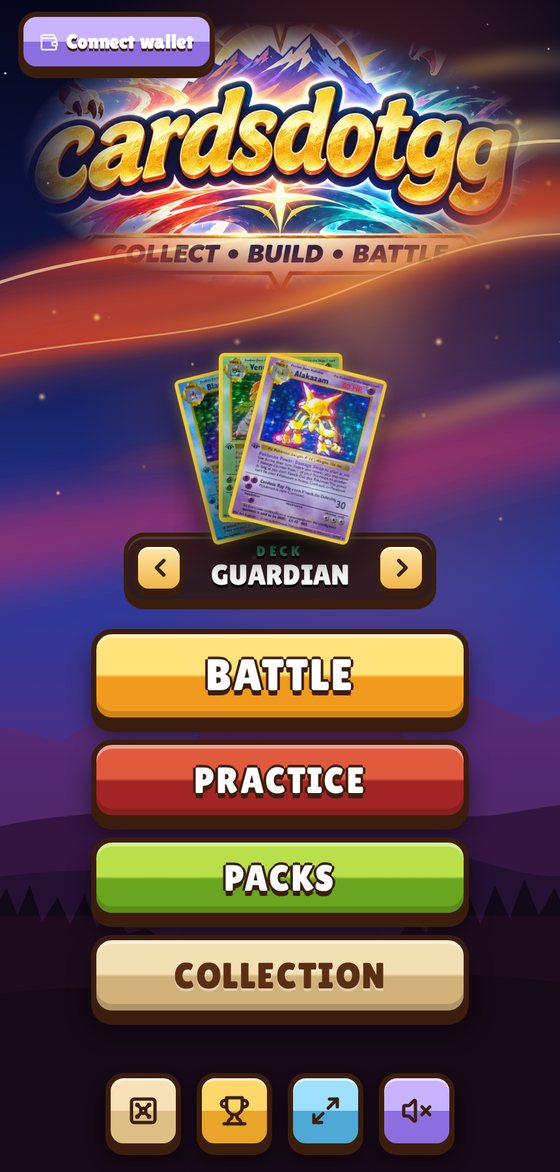
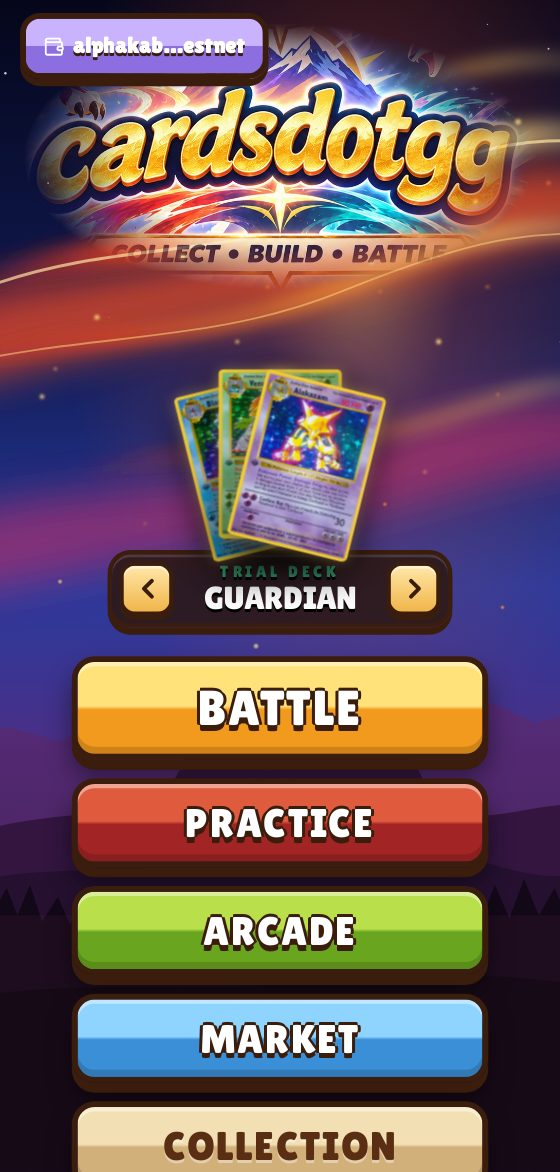
docs: README covers the arcade, White Flare NFTs, graded cards and Netlify deploy
- New app tour screenshots: arcade, Stacker, Claw, market, graded cards, White Flare collection, wallet, menu, packs
- netlify.toml for the Next.js app in app/ (base app, pnpm build, Node 22)

diff --git a/README.md b/README.md
@@ -4,7 +4,7 @@
 
 # cardsdotgg
 
-**Yield-funded card battles on NEAR. Deposit, build a deck, open packs, and duel turn by turn with every move recorded onchain.**
+**Yield-funded card battles on NEAR. Deposit, build a deck, win packs in the arcade, collect real graded cards, and duel turn by turn with every move recorded onchain.**
 
 [![NEAR testnet](https://img.shields.io/badge/NEAR-testnet-00ec97?logo=near&logoColor=white)](https://testnet.nearblocks.io/address/9cc71b1795d97d7afedcf6ca6863a9134b9adb117301f79d84424d5471daf0f4)
 [![Rust](https://img.shields.io/badge/contracts-Rust-b7410e?logo=rust&logoColor=white)](near)
@@ -12,11 +12,11 @@
 [![Yield data](https://img.shields.io/badge/yield%20data-Rhea%20pools-6c47ff)](#where-rhea-data-is-used)
 [![Status](https://img.shields.io/badge/status-prototype-orange)](#known-limits)
 
-[App tour](#app-tour) · [How it works](#how-it-works) · [Game rules](#game-rules) · [Architecture](#architecture) · [Quick start](#quick-start) · [Known limits](#known-limits)
+[App tour](#app-tour) · [How it works](#how-it-works) · [Game rules](#game-rules) · [Architecture](#architecture) · [Quick start](#quick-start) · [Deploy](#deploy-the-app-to-netlify) · [Known limits](#known-limits)
 
 </div>
 
-> Test tokens have no real value. The contracts are unaudited prototypes on NEAR testnet.
+> Test tokens have no real value. The contracts are unaudited prototypes on NEAR testnet. The one exception is **Buy with NEAR** on graded cards, which spends real NEAR on mainnet.
 
 ## Table of contents
 
@@ -28,6 +28,7 @@
 - [Live contracts](#live-contracts-near-testnet)
 - [Quick start](#quick-start)
 - [Deploy to NEAR testnet](#deploy-to-near-testnet)
+- [Deploy the app to Netlify](#deploy-the-app-to-netlify)
 - [Where Rhea data is used](#where-rhea-data-is-used)
 - [Project layout](#project-layout)
 - [Testing](#testing)
@@ -41,10 +42,13 @@ cardsdotgg is a trading-card battler where your deck is a DeFi position. You put
 - **A deck is a vault position.** Pick Guardian (steady), Balanced or Degen (risky). Principal never moves in a match.
 - **24 original creatures with real abilities.** Stats and abilities come from the product spec in [`cardsdotgg.md`](cardsdotgg.md).
 - **Collect and customize.** Packs unlock more creatures and pictures. Rare pictures give a small HP perk. Ownership is checked by the contract.
+- **Win packs in the arcade.** Stacker is free and earns Pack Tickets (3 a day). The Claw costs 2 tUSD and earns a Season Ticket. Every pack opens with a ticket.
+- **Real cards, one of one.** The White Flare season pack holds 23 real physical cards, each minted to its puller as a NEP-171 NFT on NEAR. Win the Claw and your card is 75% likely to be rare.
+- **Graded cards in the market.** The 5 cheapest graded Pokémon cards on Collector Crypt and on Magic Eden, bought with NEAR through NEAR Intents.
 - **Play without signing every move.** Matchmaking adds a restricted "quick play" key, so a duel has no wallet pop-ups.
 - **Practice for free.** Practice plays the same rules against the computer, with your own saved deck, and sends nothing to the chain.
 
-> **Status:** deployed on NEAR testnet and exercised end to end (claim, deposit, seed, challenge, accept, resolve, replay, withdraw), plus a full turn-based duel with session keys only (`pnpm e2e:duel`) and a pack purchase with ownership checks (`pnpm e2e:packs`).
+> **Status:** deployed on NEAR testnet and exercised end to end (claim, deposit, seed, challenge, accept, resolve, replay, withdraw), plus a full turn-based duel with session keys only (`pnpm e2e:duel`), a free arcade ticket opening a trial pack with ownership checks (`pnpm e2e:packs`), and the claw-to-NFT season flow (`pnpm e2e:season`). Players have pulled 8 of the 23 White Flare cards on testnet.
 
 ## App tour
 
@@ -60,7 +64,7 @@ Screens are shown at phone size with sample data. The app is built phone-first a
 <td width="25%"><img src="docs/screenshots/lobby-waiting.jpg" alt="Waiting for a player" /></td>
 </tr>
 <tr>
-<td valign="top"><b>Main menu.</b> Pick a deck type, then BATTLE (online), PRACTICE, PACKS or COLLECTION. Signing in is only needed for online play.</td>
+<td valign="top"><b>Main menu.</b> Pick a deck type, then BATTLE (online), PRACTICE, ARCADE, MARKET or COLLECTION. The deck label says TRIAL DECK until you own one, then YOUR TRIAL DECK #id.</td>
 <td valign="top"><b>Practice.</b> The real duel rules against the computer. Uses your saved deck when you are signed in, otherwise the starter deck. Nothing is sent to the chain.</td>
 <td valign="top"><b>Lobby.</b> Shows the deck you will bring. FIND OPPONENT asks your wallet once and turns on quick play. Rating, Settings and the leaderboard sit at the top.</td>
 <td valign="top"><b>Waiting.</b> Your deck is in the lobby. The fight starts the moment another player joins. Leave any time.</td>
@@ -101,11 +105,42 @@ Screens are shown at phone size with sample data. The app is built phone-first a
 
 <table>
 <tr>
-<td width="33%"><img src="docs/screenshots/packs.jpg" alt="Pack room" /></td>
-<td width="33%"><img src="docs/screenshots/pack-opened.jpg" alt="Pack opened" /></td>
-<td width="33%" valign="top">
-<b>Packs.</b> A pack costs 2 tUSD and holds 5 pictures and 1 creature. Opening one is a real purchase, then a reveal one card at a time. The summary marks what is NEW, shows each picture's HP perk, any creature you unlocked, and an unlocked counter.<br /><br />
-<b>Collection.</b> Search all 102 pictures. Each is marked Starter, Unlocked (with its perk) or Locked.
+<td width="25%"><img src="docs/screenshots/packs.jpg" alt="Pack room" /></td>
+<td width="25%"><img src="docs/screenshots/pack-opened.jpg" alt="Pack opened" /></td>
+<td width="25%"><img src="docs/screenshots/white-flare.jpg" alt="White Flare collection" /></td>
+<td width="25%"><img src="docs/screenshots/wallet.jpg" alt="Wallet" /></td>
+</tr>
+<tr>
+<td valign="top"><b>Packs.</b> Trial packs (Guardian, Balanced, Degen) open with a Pack Ticket. The White Flare tab opens with a Season Ticket and shows the season window and how many real cards are left.</td>
+<td valign="top"><b>Pack opened.</b> A reveal one card at a time. A trial pack marks what is NEW, each picture's HP perk and any creature you unlocked. A White Flare pack flips the photo of your real card.</td>
+<td valign="top"><b>Collection.</b> All 102 trial pictures, marked Trial deck, Trial pack, Trial or Locked. The White Flare tab shows the 23 real cards: Yours (with Send), Pulled or In packs.</td>
+<td valign="top"><b>Wallet.</b> Your testnet account (with Copy), the live NEAR balance, GET TESTNET NEAR (NEAR's official faucet) and Sign out.</td>
+</tr>
+</table>
+
+### Arcade and market
+
+<table>
+<tr>
+<td width="25%"><img src="docs/screenshots/arcade.jpg" alt="Arcade" /></td>
+<td width="25%"><img src="docs/screenshots/stacker.jpg" alt="Stacker" /></td>
+<td width="25%"><img src="docs/screenshots/claw.jpg" alt="Claw" /></td>
+<td width="25%"><img src="docs/screenshots/market.jpg" alt="Market" /></td>
+</tr>
+<tr>
+<td valign="top"><b>Arcade.</b> Two machines and your tickets: Pack, Season and free plays left today. Each machine has a Rules sheet.</td>
+<td valign="top"><b>Stacker (free).</b> Stop each row on the one below and reach the top. Win or lose, every play earns a Pack Ticket, up to 3 a day.</td>
+<td valign="top"><b>Claw (2 tUSD).</b> Drop the claw on a capsule. Win or lose you get a Season Ticket; a grab makes a rare White Flare card 75% likely, a miss 25%.</td>
+<td valign="top"><b>Market.</b> Redeem tickets for packs, buy graded cards, and see what is coming soon (Season 2 pack, card sleeves, booster box).</td>
+</tr>
+</table>
+
+<table>
+<tr>
+<td width="25%"><img src="docs/screenshots/graded-cards.jpg" alt="Graded cards" /></td>
+<td width="75%" valign="top">
+<b>Graded cards.</b> The 5 cheapest graded Pokémon cards on Collector Crypt and on Magic Eden, listed next to the packs with a GRADED CARD tag, the price in USD and an estimate in NEAR.<br /><br />
+<b>Buy with NEAR.</b> Paste your card wallet address, connect a NEAR <b>mainnet</b> wallet and get a live NEAR Intents quote. One NEAR transaction delivers the price plus 5% for marketplace fees to your card wallet in about 20 seconds, then the button opens the listing so you complete the buy there.
 </td>
 </tr>
 </table>
@@ -118,7 +153,8 @@ Other screens: **Get Coins** (claim free test tokens and make a deck), **Cash Ou
 flowchart LR
   A[Claim free coins] --> B[Deposit 10+ tUSD]
   B --> C[Get a deck<br/>Guardian / Balanced / Degen]
-  C --> D[Open packs<br/>unlock creatures and pictures]
+  C --> T[Arcade<br/>Stacker free / Claw 2 tUSD]
+  T --> D[Open packs with tickets<br/>unlock creatures, pictures, real cards]
   D --> E[Customize the deck]
   E --> F{Play}
   F -->|free| G[Practice vs the computer]
@@ -132,7 +168,7 @@ flowchart LR
 
 1. **Claim and deposit.** Claim tUSD or tNEAR once per 24 hours, then deposit at least 10 tUSD of value (tNEAR is valued at the Rhea-derived price) to mint a deck. A deposit is one `ft_transfer_call`: no approve step.
 2. **Earn.** Yield accrues to the deck's escrow in tUSD at the oracle rate, paid from a reserve the owner funded. Collect it any time from My Decks.
-3. **Open packs.** Each pack is 2 tUSD sent to the game contract. It unlocks 5 pictures and 1 creature in your onchain collection. See [Packs and perks](#packs-and-perks).
+3. **Play the arcade, open packs.** A free Stacker play earns a Pack Ticket, which opens a trial pack: 5 pictures and 1 creature in your onchain collection. A 2 tUSD Claw play earns a Season Ticket, which opens the White Flare pack: one real card as an NFT. See [Packs, tickets and perks](#packs-tickets-and-perks).
 4. **Customize.** In the deck builder pick 8 different creatures and a picture for each. The contract refuses a creature or picture you have not unlocked.
 5. **Practice (optional).** Play the computer with your deck to test it. Free, and no wallet needed.
 6. **Battle.** Tap FIND OPPONENT to open a lobby, or JOIN BATTLE on one that is waiting. Each player stakes 0.1% of their deposit from escrow. If either side is short, the match is Rank-only.
@@ -175,19 +211,36 @@ The duel rules live in [`near/game/src/duel.rs`](near/game/src/duel.rs) and are 
 
 The class wheel is Stable > Treasury > Gold > Credit > BTC > Stable. The class wheel and the Energy, power and retreat numbers are new to this build and need playtesting.
 
-### Packs and perks
+### Packs, tickets and perks
 
-- A pack is **2 tUSD**: 2 common, 2 uncommon and 1 rare picture, plus 1 creature.
+- **Every pack opens with a ticket.** Packs can no longer be bought directly with tUSD; the contract refuses it and returns the tUSD.
+- **Pack Ticket:** each free Stacker play earns one, up to **3 per wallet per UTC day** (`arcade_free_play`). It opens one trial pack (`open_pack`): 2 common, 2 uncommon and 1 rare picture, plus 1 creature.
+- **Season Ticket:** each paid Claw play (**2 tUSD**, to the prize pool) earns one after its result is reported (`arcade_claw_result`). It opens one White Flare pack (`open_season_pack`).
 - **Creatures:** a deck can always use its own type's 8 starter creatures. Any other creature must be unlocked.
 - **Pictures:** a card's picture must be one of the 24 printed on the starter decks, or unlocked. Each picture can be used once per deck.
 - **HP perk:** a picture unlocked from a pack adds max HP to its card, rare +5% and uncommon +2%. Starter pictures and the default give nothing.
+
+### White Flare season (real cards)
+
+- **23 physical cards, one of each,** loaded on-chain as the season stock (`set_rwa_stock`). A season pack mints exactly one of them to the buyer and removes it from the stock, so no card goes out twice; the pack sells out at zero.
+- **Season window:** the pack opens only between the season's start and end (`set_season`, about two months). The contract enforces it.
+- **Rare odds:** 8 cards printed Uncommon or above are rare (`set_rwa_rare`). A won Claw ticket draws a rare card 75% of the time, a lost one 25%, from the block's random seed. The win itself is reported by the app.
+- **NEP-171 NFTs:** the cards are standard NEAR NFTs inside the game contract: NEP-171 core, NEP-177 metadata (title, photo, set and number), NEP-178 approvals for marketplaces, NEP-181 enumeration and NEP-297 events. Holders can send them from the collection.
+- **Collectibles only:** they are not deck pictures and give no battle perk.
+
+### Graded cards (NEAR Intents)
+
+- **Listings:** the 5 cheapest graded Pokémon cards on [Collector Crypt](https://collectorcrypt.com)'s marketplace (priced in USDC) and on [Magic Eden](https://magiceden.io)'s `collector_crypt` collection (priced in SOL), read straight from their public APIs in the browser.
+- **Payment:** [NEAR Intents](https://docs.near-intents.org) 1Click on **mainnet**. A live quote gives a deposit address; one NEAR transaction to `wrap.near` wraps the quoted NEAR and sends it there, and NEAR Intents delivers the price plus 5% to the buyer's card wallet. If it cannot complete, it refunds the NEAR.
+- **The buy itself** happens on the marketplace with that wallet: NEAR Intents can deliver the funds but cannot sign the marketplace purchase.
+- **A separate wallet connection:** mainnet sign-in is kept apart from the testnet game session and is only used for this.
 
 ## Architecture
 
 ```mermaid
 flowchart TB
   subgraph Browser[Next.js app]
-    UI[Game UI<br/>menu, lobby, duel, builder, packs]
+    UI[Game UI<br/>menu, lobby, duel, builder,<br/>arcade, market, packs]
     ENG[duelEngine.ts<br/>practice, same rules]
     SK[Session key<br/>signs moves locally]
   end
@@ -198,6 +251,8 @@ flowchart TB
     P[pool<br/>tUSD/tNEAR]
   end
   K[Keeper<br/>reads Rhea, writes rates,<br/>resolves old-style matches]
+  MKT[(Collector Crypt and<br/>Magic Eden listings)]
+  NI[NEAR Intents 1Click<br/>mainnet]
   R[(Rhea pools<br/>NEAR mainnet)]
   UI --> W --> G
   SK --> G
@@ -207,26 +262,31 @@ flowchart TB
   P <--> T
   K --> G
   R --> K
+  UI -. reads .-> MKT
+  UI -->|Buy with NEAR, mainnet| NI
 ```
 
 | Part | What it does |
 | --- | --- |
-| **`near/game`** | One contract: rate oracle, deck vault, yield escrow, arena, Elo, onchain deck SVG, the auto-battle engine (a port of the Solidity engine), turn-based duels (`duel.rs`) and packs (`collection.rs`). It lives on one account because NEAR calls between contracts are asynchronous and the state must change together. |
+| **`near/game`** | One contract: rate oracle, deck vault, yield escrow, arena, Elo, onchain deck SVG, the auto-battle engine (a port of the Solidity engine), turn-based duels (`duel.rs`), packs (`collection.rs`), arcade tickets (`arcade.rs`), the White Flare stock (`rwa.rs`) and its NEP-171 NFTs (`nft.rs`). It lives on one account because NEAR calls between contracts are asynchronous and the state must change together. |
 | **`near/ft`** | A NEP-141 test token with a 24h `claim`. Deployed twice, as tUSD and tNEAR. |
 | **`near/pool`** | The tUSD/tNEAR constant-product pool. |
 | **`keeper/`** | Reads Rhea on mainnet and writes rates and the NEAR price to the game contract, resolves old-style matches, and holds the deploy and e2e scripts. |
-| **`app/`** | The Next.js app: UI, the local practice engine, wallet and session-key code. |
+| **`app/`** | The Next.js app: UI, the local practice engine, wallet and session-key code, the arcade games, and the graded-card listings and NEAR Intents client. |
 | **`shared/`** | Card data, engine rulings, Rhea snapshots, addresses. |
 
 **Game contract methods**
 
 | Area | Methods |
 | --- | --- |
-| Vault | `ft_on_transfer` (`deposit`, `reserve`, `liquidity`, `pack`), `checkpoint`, `withdraw`, `quote_withdraw`, `seed_escrow` |
+| Vault | `ft_on_transfer` (`deposit`, `reserve`, `liquidity`, `arcade_claw`), `checkpoint`, `withdraw`, `quote_withdraw`, `seed_escrow` |
 | Oracle | `set_rates`, `reset_rates`, `set_near_price`, `oracle` |
 | Duels | `create_challenge`, `accept_duel`, `play`, `play_turn`, `forfeit`, `claim_timeout`, `cancel`, `expire`, `get_duel`, `get_match`, `recent_matches` |
 | Auto-battle | `accept`, `resolve`, `simulate`, `simulate_with_log` |
-| Decks and packs | `set_deck_cards`, `get_deck_cards`, `get_collection`, `pack_price`, `decks_of`, `deck_svg` |
+| Decks and packs | `set_deck_cards`, `get_deck_cards`, `get_collection`, `open_pack`, `pack_price`, `decks_of`, `deck_svg` |
+| Arcade | `arcade_free_play`, `arcade_claw_result`, `get_tickets`, `arcade_info` |
+| Season (real cards) | `set_season`, `get_season`, `set_rwa_stock`, `set_rwa_rare`, `open_season_pack`, `season_pack_price`, `rwa_stock`, `rwa_all`, `rwa_tokens_of`, `rwa_redeem` |
+| NFTs (NEP-171/177/178/181) | `nft_transfer`, `nft_transfer_call`, `nft_token`, `nft_metadata`, `nft_approve`, `nft_revoke`, `nft_revoke_all`, `nft_is_approved`, `nft_total_supply`, `nft_tokens`, `nft_supply_for_owner`, `nft_tokens_for_owner`, `set_nft_config` |
 | Ratings | `rating_of`, `players`, `player_count` |
 
 Contract changes are made so existing state keeps loading: new data goes in new storage maps, and older records are still read and converted.
@@ -235,7 +295,7 @@ Contract changes are made so existing state keeps loading: new data goes in new 
 
 | Contract | Account |
 | --- | --- |
[5 lines of base64/hex data omitted]
@@ -253,7 +313,7 @@ pnpm install
 
 # contracts
 cd near
-cargo test --workspace                     # 55 game tests
+cargo test --workspace                     # 65 game tests
 RUSTFLAGS="--cfg near -C link-arg=-s" cargo build --target wasm32-unknown-unknown --release --workspace
 
 # app
@@ -270,7 +330,7 @@ pnpm dry                                   # read only, writes shared/*.json
 pnpm run-once                              # also writes rates and the NEAR price to the testnet game contract
 ```
 
-**First run in the app:** open `/`, tap PRACTICE to play right away with no wallet. To play online, tap BATTLE, connect a wallet, then GET COINS (claim free coins, make a deck) and FIND OPPONENT. You also need a little testnet NEAR for fees, free at <https://near-faucet.io/>.
+**First run in the app:** open `/`, tap PRACTICE to play right away with no wallet. To play online, tap BATTLE, connect a wallet, then GET COINS (claim free coins, make a deck) and FIND OPPONENT. You also need a little testnet NEAR for fees: open the wallet sheet (top right) and tap GET TESTNET NEAR, which opens [NEAR's official faucet](https://docs.near.org/getting-started/faucet). Then play Stacker in the ARCADE for free Pack Tickets.
 
 ### Deploy to NEAR testnet
 
@@ -284,12 +344,32 @@ KEEPER_ACCOUNT_ID=... KEEPER_PRIVATE_KEY=... pnpm run-once                  # wr
 CODE_ONLY=1 ONLY=game pnpm deploy-testnet                                   # later: replace only the game contract's code, keeping its state
 pnpm e2e                                                                    # two fresh players play a full loop
 pnpm e2e:duel                                                               # a whole duel with session keys only (needs ~0.4 testnet NEAR)
-pnpm e2e:packs                                                              # buy a pack, check unlocks and ownership (needs ~0.2 testnet NEAR)
+pnpm e2e:packs                                                              # earn a free ticket, open a pack, check unlocks and ownership (needs ~0.2 testnet NEAR)
+pnpm set-season && pnpm set-rwa-stock && pnpm set-rwa-rare && pnpm set-nft-config   # owner: open the season, load the 23 cards, rare ids and NFT image paths
+CONSUME_STOCK=1 pnpm e2e:season                                             # claw play, then a season pack (gives one real card to a test account)
 pnpm resolve:watch                                                          # auto-resolve old-style matches and expire stale lobbies
 bash deploy/install-resolver.sh                                             # run the resolver as a systemd user service
 ```
 
 The keeper's resolver (`pnpm resolve:watch`) only matters for the older auto-battle path (`accept` then `resolve`). Duels need no resolver: the contract settles them in the final move.
+
+## Deploy the app to Netlify
+
+The repo has a [`netlify.toml`](netlify.toml) for the Next.js app in `app/`. Netlify detects Next.js and adds its runtime by itself.
+
+| Setting | Value |
+| --- | --- |
+| Base directory | `app` |
+| Build command | `pnpm build` (runs `scripts/sync-shared.mjs` first, which copies `shared/` into `app/lib/shared`) |
+| Publish directory | `.next` |
+| Node | 22 |
+| Environment variables | None. Contract addresses come from `shared/addresses.json`; the listing and NEAR Intents APIs need no keys. |
+
+1. In Netlify, **Add new site → Import an existing project** and pick this repository. The settings above are read from `netlify.toml`.
+2. Deploy. Every page is static except `/match/[id]`, which Netlify serves as a function.
+3. After the first deploy, set the NFT image base so wallets can show the White Flare photos: `cd keeper && NFT_BASE_URI=https://<your-site>.netlify.app pnpm set-nft-config`.
+
+Checked locally with `pnpm build` (16 routes, no errors).
 
 ## Where Rhea data is used
 
@@ -314,10 +394,11 @@ A one-shot keeper (`keeper/`) reads NEAR mainnet and writes `shared/rate-sources
 | `near/game` | The game contract. `duel.rs` (duels), `collection.rs` (packs and ownership), `engine.rs` (auto-battle), `elo.rs`, `svg.rs`, `lib.rs` |
 | `near/ft` | NEP-141 test token with a 24h `claim`; deployed twice as tUSD and tNEAR |
 | `near/pool` | tUSD/tNEAR pool |
-| `keeper/` | Rhea reader, deploy script, resolver, and the e2e scripts (`e2e.ts`, `e2e-duel.ts`, `e2e-packs.ts`) |
-| `app/app` | Pages: `/` menu and practice, `/play`, `/match/[id]`, `/decks`, `/decks/build`, `/packs`, `/collection`, `/deposit`, `/withdraw`, `/pool`, `/arena`, `/leaderboard` |
-| `app/components/game` | The battle screen (`OnlineBattle`, shared by online duels and practice), `PracticeBattle`, `ReplayBattle`, `SettingsSheet`, `DeckCarousel`, `CreatureCard`, `PackRoom` |
-| `app/lib` | `wallet.tsx` (wallet and quick play), `session-core.ts`, `game/duelEngine.ts` (the local engine), `game/duelView.ts` (replay), `game/useCollection.ts` |
+| `keeper/` | Rhea reader, deploy script, resolver, the e2e scripts (`e2e.ts`, `e2e-duel.ts`, `e2e-packs.ts`, `e2e-season.ts`) and the season setup scripts (`set-season.ts`, `set-rwa-stock.ts`, `set-rwa-rare.ts`, `set-nft-config.ts`) |
+| `app/app` | Pages: `/` menu and practice, `/play`, `/match/[id]`, `/decks`, `/decks/build`, `/arcade`, `/market`, `/packs`, `/collection`, `/deposit`, `/withdraw`, `/pool`, `/arena`, `/leaderboard` |
+| `app/components/game` | The battle screen (`OnlineBattle`, shared by online duels and practice), `PracticeBattle`, `ReplayBattle`, `SettingsSheet`, `DeckCarousel`, `CreatureCard`, `PackRoom`, `Arcade` (Stacker and Claw), `Market`, `GradedCards`, `SeasonCollection` |
+| `app/lib` | `wallet.tsx` (wallet and quick play), `session-core.ts`, `game/duelEngine.ts` (the local engine), `game/duelView.ts` (replay), `game/useCollection.ts`, `game/arcade.ts` (tickets), `game/rwa.ts` and `game/rwa-catalog.json` (the 23 real cards), `solana/` (graded-card listings, NEAR Intents client, mainnet wallet) |
+| `app/public/cards/wf-token` | Photos of the 23 White Flare cards and the pack cover |
 | `shared/` | Card data, engine rulings, Rhea data, addresses |
 | `docs/screenshots` | The images in this README |
 | `contracts/` | The original Solidity/Monad contracts, kept as the reference for the engine test vectors |
@@ -327,25 +408,28 @@ A one-shot keeper (`keeper/`) reads NEAR mainnet and writes `shared/rate-sources
 
 | Suite | Command | What it covers |
 | --- | --- | --- |
-| Contract | `cd near && cargo test --workspace` | 55 tests: 90 Solidity engine vectors, duel rules, every deck matchup played to a result, custom decks, packs and ownership, perks, forfeit, timeout, and loading older stored data |
+| Contract | `cd near && cargo test --workspace` | 65 tests: 90 Solidity engine vectors, duel rules, every deck matchup played to a result, custom decks, packs and ownership, perks, arcade tickets and the daily cap, the claw's 75%/25% odds, the season window and stock, NEP-171/177/178/181 NFTs, forfeit, timeout, and loading older stored data |
 | Duel engine (TS) | `cd app && pnpm test:duel` | 10 tests mirroring the contract's duel tests, plus the computer playing every matchup |
 | Practice (old) | `cd app && pnpm test:game` | 6 tests of the earlier practice simulation |
 | Types | `cd app && pnpm typecheck` | The whole app |
 | Live, duel | `cd keeper && pnpm e2e:duel` | A full duel on testnet signed only by session keys, and the key refused for other methods |
-| Live, packs | `cd keeper && pnpm e2e:packs` | Buys a real pack, checks the unlock, and that unowned cards are refused |
+| Live, packs | `cd keeper && pnpm e2e:packs` | Earns a free Pack Ticket, opens a trial pack with it, checks the unlock, and that unowned cards are refused |
+| Live, season | `cd keeper && CONSUME_STOCK=1 pnpm e2e:season` | A paid claw play, its result, and a season pack minting one real card as an NFT (uses up one card from the stock) |
 
 ## Known limits
 
 - **Prototype.** The contracts are unaudited testnet prototypes with no upgrade path, and the owner is also the keeper and the host of the game contract.
-- **Randomness.** Seeds come from the block's `random_seed`, and a caller can choose which block to act in. This covers match seeds, duel rolls and pack contents. It is not safe for real value.
+- **Randomness.** Seeds come from the block's `random_seed`, and a caller can choose which block to act in. This covers match seeds, duel rolls, pack contents and which White Flare card a season pack draws. It is not safe for real value.
 - **Duel balance is untuned.** The class wheel and the Energy, power and retreat numbers are new. In a greedy-bot test Guardian lost most games, and a Guardian mirror takes about 30 turns. The spec target of each pairing winning 48 to 52% is not met.
-- **Packs cost real tUSD value but have no limit.** Nothing caps how many a player can buy, and the price (2 tUSD) is a guess.
+- **Arcade results.** The Claw's win is reported by the app, so a player calling the contract directly could always claim a win and get the 75% rare odds. Every Season Ticket still costs a 2 tUSD play. Free Pack Tickets are capped at 3 per wallet per day.
+- **Real cards.** The White Flare cards are real items held by the project. Redeeming one only marks the token on-chain; shipping, and collecting a delivery address privately, are handled off-chain. Paid random packs of real-value items can count as gambling in some places; check before a mainnet launch.
+- **Graded cards are mainnet.** Buy with NEAR spends real NEAR, the listing can sell before the buyer completes it (the funds stay in their card wallet), and Collector Crypt's API is undocumented: the cheapest five come from scanning listed cards up to 250 USDC and sorting them in the app.
 - **Replay HP is approximate.** The move log records damage dealt but not HP afterwards, so the replay rebuilds HP and can be slightly off for cards that heal or reflect damage. Who is active, the bench, points and Energy are exact.
 - **Wallets.** Sign-in goes through `@hot-labs/near-connect`. Quick play's bundled key approval was reported to fail in Meteor, where moves then ask for approval. The cause is unconfirmed.
 - **RPC rate limits.** The free FastNEAR endpoint refuses after a burst of about 8 requests from one IP, and the browser shows that 429 as a CORS error. The app polls about 16 requests a minute in the lobby and 12 in a battle. A FastNEAR API key would remove the limit.
 - **Not fully live-tested.** The real wallet approval for adding the session key, the deck builder's save, claim and replay on a real match, and the pack purchase through a wallet were checked with mocks or by script, not in a browser against a live wallet.
 - **Art and names.** `app/public/cards` and `app/lib/game/card-catalog.json` hold Pokémon TCG Base Set images and names, while the 24 spec creatures have no art of their own. A picture can show a different printed name than the card's game name. Confirm the rights before any release outside the hackathon.
-- **Deck token.** Decks are records in the game contract with an onchain SVG (`deck_svg`), not NEP-171 NFTs, so they do not show in NFT wallets.
+- **Deck token.** Decks are records in the game contract with an onchain SVG (`deck_svg`), not NEP-171 NFTs, so they do not show in NFT wallets. The White Flare cards are NEP-171 NFTs, but their images need `NFT_BASE_URI` set to the deployed app before wallets can show them.
 - **Demo seed.** The owner can seed escrow from the reserve, labelled "includes demo seed", because real yield takes days to cover a stake.
 - **Withdraw payouts.** `withdraw` updates state, then sends `ft_transfer` with a callback that restores the deck if the transfer fails. This is covered by a unit test, not yet seen on a live network.
 - **Leftover docs.** `docs/agents/*` and `cardsdotgg.md` still describe the Monad build.
@@ -354,5 +438,6 @@ A one-shot keeper (`keeper/`) reads NEAR mainnet and writes `shared/rate-sources
 
 - Game design and rules: [`cardsdotgg.md`](cardsdotgg.md).
 - Yield and price data: [Rhea](https://rhea.finance) pools on NEAR mainnet.
+- Graded card listings: [Collector Crypt](https://collectorcrypt.com) and [Magic Eden](https://magiceden.io). Cross-chain payment: [NEAR Intents](https://docs.near-intents.org).
 - Wallet connection: [`@hot-labs/near-connect`](https://github.com/hot-dao/near-selector). Contracts built on [near-sdk-rs](https://github.com/near/near-sdk-rs).
 - Started at Monad Blitz Devcon Mumbai and rebuilt for NEAR.
